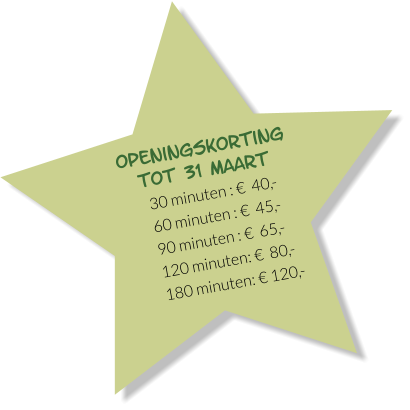
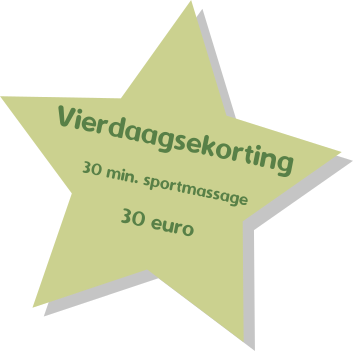
Vierdaagseactie

diff --git a/index.html b/index.html
@@ -355,8 +355,8 @@
 		 <!--<dt> <i>Vanaf 1 januari volgend jaar verhogen wij de tarieven. </i> </dt>-->
 	  </dl> 
 	  
-	 <!-- <img  src="actie.png" alt="Actie" width="300">  -->
-	  
+	 <img  src="actie.png" alt="Actie" width="300">  
+	 	  
 	  <h4 class="w4-center">Meerprijzen</h4>	  
 	  <dl>
 	   <dt> Hotstone Massage € 15,- </dt>	  
